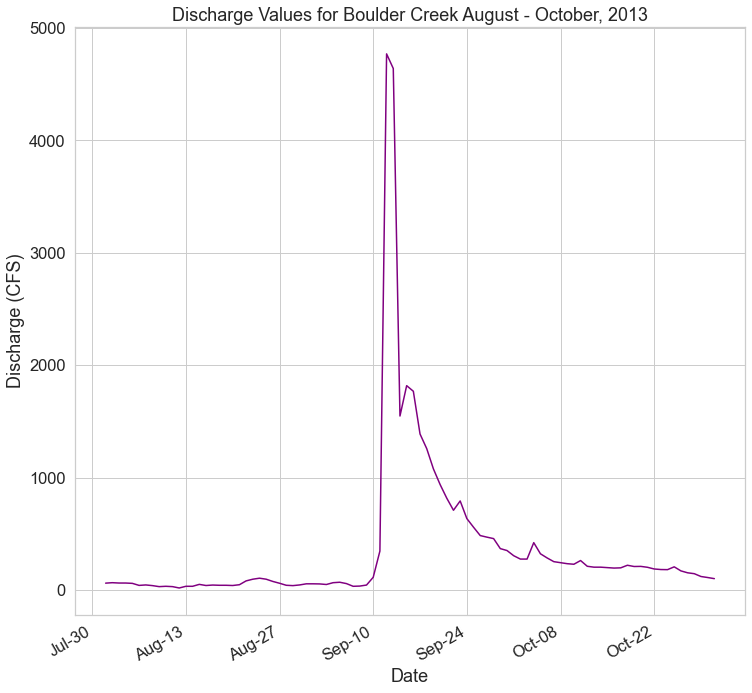
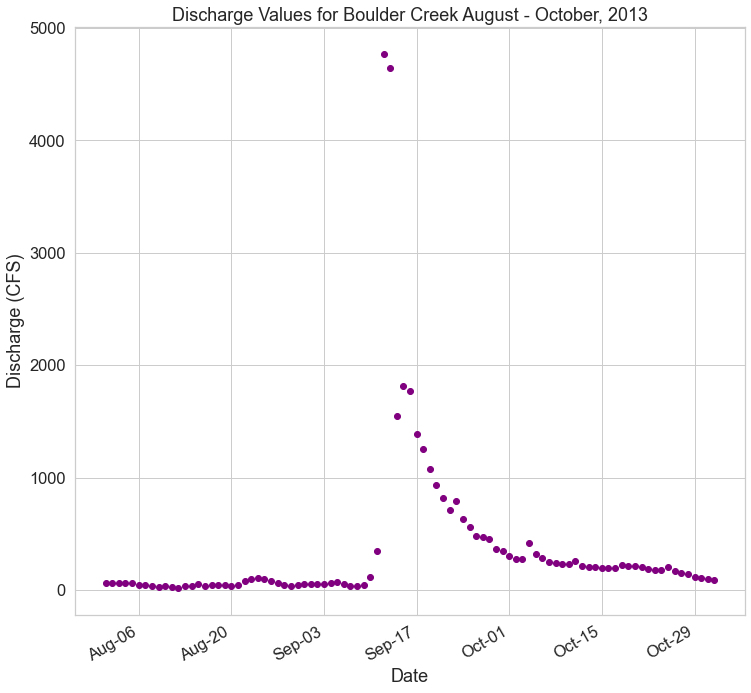
more edits

diff --git a/_posts/courses/intermediate-earth-data-science-textbook/01-time-series/plot-time-series-handle-dates/2019-11-19-time-series-06-time-series-exercise.md b/_posts/courses/intermediate-earth-data-science-textbook/01-time-series/plot-time-series-handle-dates/2019-11-19-time-series-06-time-series-exercise.md
@@ -3,7 +3,7 @@ layout: single
 title: "Summary Activity for Time Series Data"
 excerpt: "An activity to practice all of the skills you just learned in ."
 authors: ['Leah Wasser', 'Nathan Korinek']
-modified: 2020-06-16
+modified: 2020-06-17
 category: [courses]
 class-lesson: ['time-series-python-tb']
 course: 'intermediate-earth-data-science-textbook'
@@ -74,9 +74,19 @@ stream_discharge_path = os.path.join("colorado-flood",
 
 <div class="notice--warning alert alert-info" markdown="1">
 
-## <i class="fa fa-pencil-square-o" aria-hidden="true"></i> Challenge 1: Read a CSV file
+## <i class="fa fa-pencil-square-o" aria-hidden="true"></i> Challenge 1: Explore Your Data & Metadata
 
-Before we open a file in **python**, it can be good to look at the data contained in the file. Open up the folder that was downloaded above (should be in your home directory under `earth-analytics/data/colorado-flood/discharge`. In that folder you'll see three files, `README_dischargeMetadata.rtf`, `06730200-discharge-daily-1986-2013.csv`, and `06730200-discharge-daily-1986-2013.txt`. Between these files, you should be able to find out a lot of information. Open these files in any text editor and read the data in them, and use the data to answer the following questions:
+Before you begin working with files using **python**, it can be helpful 
+to look at the structure of the file itself. In some cases, text files 
+metadata at the top of the file that tell you more about the data within 
+the file itself. This information at the top of the text file can help 
+you make decisions about how you plan to import the data, and what cleanup 
+steps you may need to take.
+
+Open up the folder that was downloaded above. The file should be in your 
+home directory under `earth-analytics/data/colorado-flood/discharge`. In 
+that folder you'll see three files, `README_dischargeMetadata.rtf`, `06730200-discharge-daily-1986-2013.csv`, and `06730200-discharge-daily-1986-2013.txt`. Use the 
+`06730200-discharge-daily-1986-2013.csv` file to answer the questions below:
 
 
 1. What is the delimiter used in `06730200-discharge-daily-1986-2013.csv`?
@@ -90,7 +100,7 @@ Write down your answers in the cell below as a comment.
 
 <div class="notice--warning alert alert-info" markdown="1">
 
-## <i class="fa fa-pencil-square-o" aria-hidden="true"></i> Challenge 2: Open a CSV with Time Series Data and Plot the Data
+## <i class="fa fa-pencil-square-o" aria-hidden="true"></i> Challenge 2: Open and Plot a CSV File with Time Series Data
 
 The code above creates a path (`stream_discharge_path`) to open daily stream 
 discharge measurements taken by U.S. Geological Survey from 1986 to 2013 at 
@@ -130,14 +140,19 @@ Your final plot should look like the plot below.
 
 ## <i class="fa fa-pencil-square-o" aria-hidden="true"></i> Challenge 3: Subset the Data
 
-Since we are mostly interested in the flood data in 2013, we can focus in more closely on that data. Let's focus on the months around the event. Do the following: 
-1. Subset the data to be just the discharge data from August 1st, 2013 until October 10th, 2013
-2. Plot the newly subset data with **matplotlib**. Make sure your x-axis is the dates, and your y-axis is the `disValue` column from the **pandas** `DataFrame`.
+The 2013 Colorad Flood occurred in 2013. The plot above shows all of the stream discharge data over several decades. In this challenge you will subset the data to just the year and months during which the flood event occurred. 
+
+Do the following: 
+1. Subset the data to including only discharge data from August 1st, 2013 through November 1, 2013
+2. Plot the newly subset data with **matplotlib**. Make sure your x-axis contains dates,  and your y-axis is contains the `disValue` column from your **pandas** `DataFrame`.
 3. Give your plot a title and label the axes.
 4. Format the dates on the x-axis so they only show the month and the day. Additionally, you can angle the dates using the line of code `fig.autofmt_xdate()`. 
 5. Make the x-axis week ticks only show up for every other week. 
 
-If you need help, see [this lesson](https://www.earthdatascience.org/courses/use-data-open-source-python/use-time-series-data-in-python/date-time-types-in-pandas-python/subset-time-series-data-python/) for more information regarding sub-setting **pandas** `DataFrames`, and [this lesson](https://www.earthdatascience.org/courses/use-data-open-source-python/use-time-series-data-in-python/date-time-types-in-pandas-python/customize-dates-matplotlib-plots-python/) for more information about customizing your date ticks in **matplotlib**. 
+The lessons below should help you complete this challenge:
+
+* [More on subsetting time series data using **Pandas**](https://www.earthdatascience.org/courses/use-data-open-source-python/use-time-series-data-in-python/date-time-types-in-pandas-python/subset-time-series-data-python/) 
+* [More on customizing date labels on time series plots in **matplotlib**](https://www.earthdatascience.org/courses/use-data-open-source-python/use-time-series-data-in-python/date-time-types-in-pandas-python/customize-dates-matplotlib-plots-python/). 
 </div>
 
 
@@ -187,16 +202,23 @@ If you need help, see [this lesson](https://www.earthdatascience.org/courses/use
 
 ## <i class="fa fa-pencil-square-o" aria-hidden="true"></i> Challenge 5: Compare Two Months Side by Side
 
-The weekly data didn't seem to be very informative, so let's use the daily data once again. In order to see how significant these discharge levels are, create a plot comparing these levels to the levels seen 10 years ago during the same months. Do the following: 
+In this next challenge, you will compare daily max stream discharge for two time periods. Create a plot comparing stream discharge in  levels to the levels seen 10 years ago during the same months. Do the following: 
 
-1. Create another subset of data to be the discharge data from August 1st, 2003 until October 10th, 2003 
-2. Plot the data from 2003 on a plot next to the data from 2013 using `matplotlib`. Give your plots titles and label the axes.
-3. Modify the y limits of the 2003 plot to match the y limits of the 2013 plot. (Hint: you can use `ax.get_ylim()` and `ax.set_ylim()` to accomplish this). 
-4. You may have noticed empty space on either side of the data in your previous plot. Use `ax.set_xlim()` to set the x limits of your plot to the minimum and maximum date values in each of your subset datasets. 
-5. Format the dates on the x-axis so they only show the month and the day. Angle the dates to increase legibility as well. 
-6. Make the x-axis week ticks only show up for every other week. 
+1. Create a data subset for the time periods:
+    * August 1st, 2003 - October 31st, 2003 
+    * August 1st, 2013 - October 31st, 2013 
+2. Plot the data from 2003 on a plot above of the data from 2013 using `matplotlib`. 
+3. Add titles to each plot and and label the axes.
+4. Use `fig.suptitle("title-here")` to add a title to your figure.
+5. Modify the y limits of both plots to range from 0 to the max value found in the 2013 data subset. 
+    * Hint: you can use `round(data-frame-name["disValue"].max(), -3)` to get the max value from your 2013 data. 
+    * use `ax.set_ylim(min-value, max-value)` to set the limits
+6. Format the dates on the x-axis as follows:
+    * Make sure date ticks only show the month and the day - example: `Aug-06`.
+    * Make the x-axis week ticks only display for every other week. 
 7. Use `plt.tight_layout()` to ensure your plots don't overlap each other. 
 
+OPTIONAL: You may have noticed empty space on either side of the x-axis in your previous plot. Use `ax.set_xlim()` to set the x limits of your plot to the minimum and maximum date values in each of your subset datasets. 
 </div>
 
 
@@ -217,7 +239,9 @@ The weekly data didn't seem to be very informative, so let's use the daily data 
 
 ## <i class="fa fa-pencil-square-o" aria-hidden="true"></i> Bonus Challenge: Get Data from Hydrofunctions
 
-There are many ways to get data into **python**. So far we've been using `et.data.get_data()` to download our data. There is another open source repository called **hydrofunctions** that can be used to download hydrologic data from the U.S. Geological Survey. For the bonus challenge, you'll be using **hydrofunctions** to download discharge data and plot it much like you did above. To get the data using **hydrofunctions**, run the code below.
+There are many ways to get data into **python**. So far you have used `et.data.get_data()` to download your data. However you can also access data directly using open source tools that access API's (automated tools that directly access and downoad data from the data servers). 
+
+**hydrofunctions** is an open source Python package that allows you to download hydrologic data from the U.S. Geological Survey. For the bonus challenge, you'll use **hydrofunctions** to download stream discharge data and plot it much like you did above. To get the data using **hydrofunctions**, run the code below.
 
 ```
 import hydrofunctions as hf
@@ -239,12 +263,13 @@ longmont_discharge = hf.extract_nwis_df(longmont_resp)
 
 Once you have the data into a **pandas** `DataFrame` using the code above, perform the following tasks: 
 
-1. Rename the columns to be called `discharge` and `flags`.
-2. Subset the data to be only data from `1970` and onwards.
-3. Resample the data to be the annual maximum for each year. 
-4. Plot the data using `matplotlib`. 
+1. Rename the columns (USGS:06730500:00060:00003, USGS:06730500:00060:00003_qualifiers)) `discharge` and `flags`. This will make the data a bit easier to work with. HINT: if you don't know how to rename a dataframe column, try looking it up using Google search!
+2. Subset the data to the time period: `1970` through the present.
+3. Resample the data calculate the annual maximum stream discharge value for each year. 
+4. Plot the data using `matplotlib`. Format the x and y axis so the labels are easy to read. Add a title to your plot.
 
 </div>
+
 
 
 
@@ -262,20 +287,31 @@ Once you have the data into a **pandas** `DataFrame` using the code above, perfo
 
 <div class="notice--warning alert alert-info" markdown="1">
 
-## <i class="fa fa-pencil-square-o" aria-hidden="true"></i> Bonus Challenge 2: Plotting Precipitation and Discharge Side by Side 
+## <i class="fa fa-pencil-square-o" aria-hidden="true"></i> Bonus Challenge 2: Plot Precipitation and Stream Discharge In One Figure 
 
 For this challenge, you will open up the precipitation dataset also found in the `colorado-flood` download, and plot it side by side with discharge to see how they interact. For this challenge, you need to:
 
-1. Open the precipitation data in Pandas (the path is provided for you).
-2. Parse the date column ("DATE") and set it as the index.
-3. Set the `na_values` to `999.99`. 
-4. Subset the data to just be for the year 2013. 
-5. Subset the stream discharge data to be for the year 2013.
-6. Resample the discharge datset to be the weekly maximum values instead of daily. 
-7. Resample the precipitation datset to be the weekly sum of all values instead of hourly. 
-8. Plot the precipitation data and the discharge data side by side so we can see how the two compare. Use scatter plots. 
-9. Format your plots are we were doing before so they look good. Date formatting is up to you!
+### Precipitation Data Processing
+
+1. Open the precipitation data that you used previously (`colorado-flood/precipitation/805325-precip-daily-2003-2013.csv`) using **Pandas**.
+  * Make sure the date column ("DATE") is set as the index.
+  * Set the `na_values` to `999.99`. 
+2. Subset the precipitation data to the time period 2013. 
+3. Resample the precipitation data to provide a weekly `sum()` of all values instead of hourly. 
+
+### Stream Discharge Data Processing
+
+1. Subset the stream discharge data to the time period 2013.
+2. Resample the discharge data provide a the weekly maximum values instead of daily. 
+
+*******
+### Plot Your Data In One Figure
+
+* Plot the precipitation data and the discharge data as **scatter plots** stacked one on top of each other so you can compare the two visually. 
+*  Format your plots  with titles, x and y axis labels. Make sure the dates are easy to read.
 </div>
+
+# TODO - NATHAN WHY DID YOU SPECIFY MAX AND SUM -- they should show the same value i think?
 
 
 
